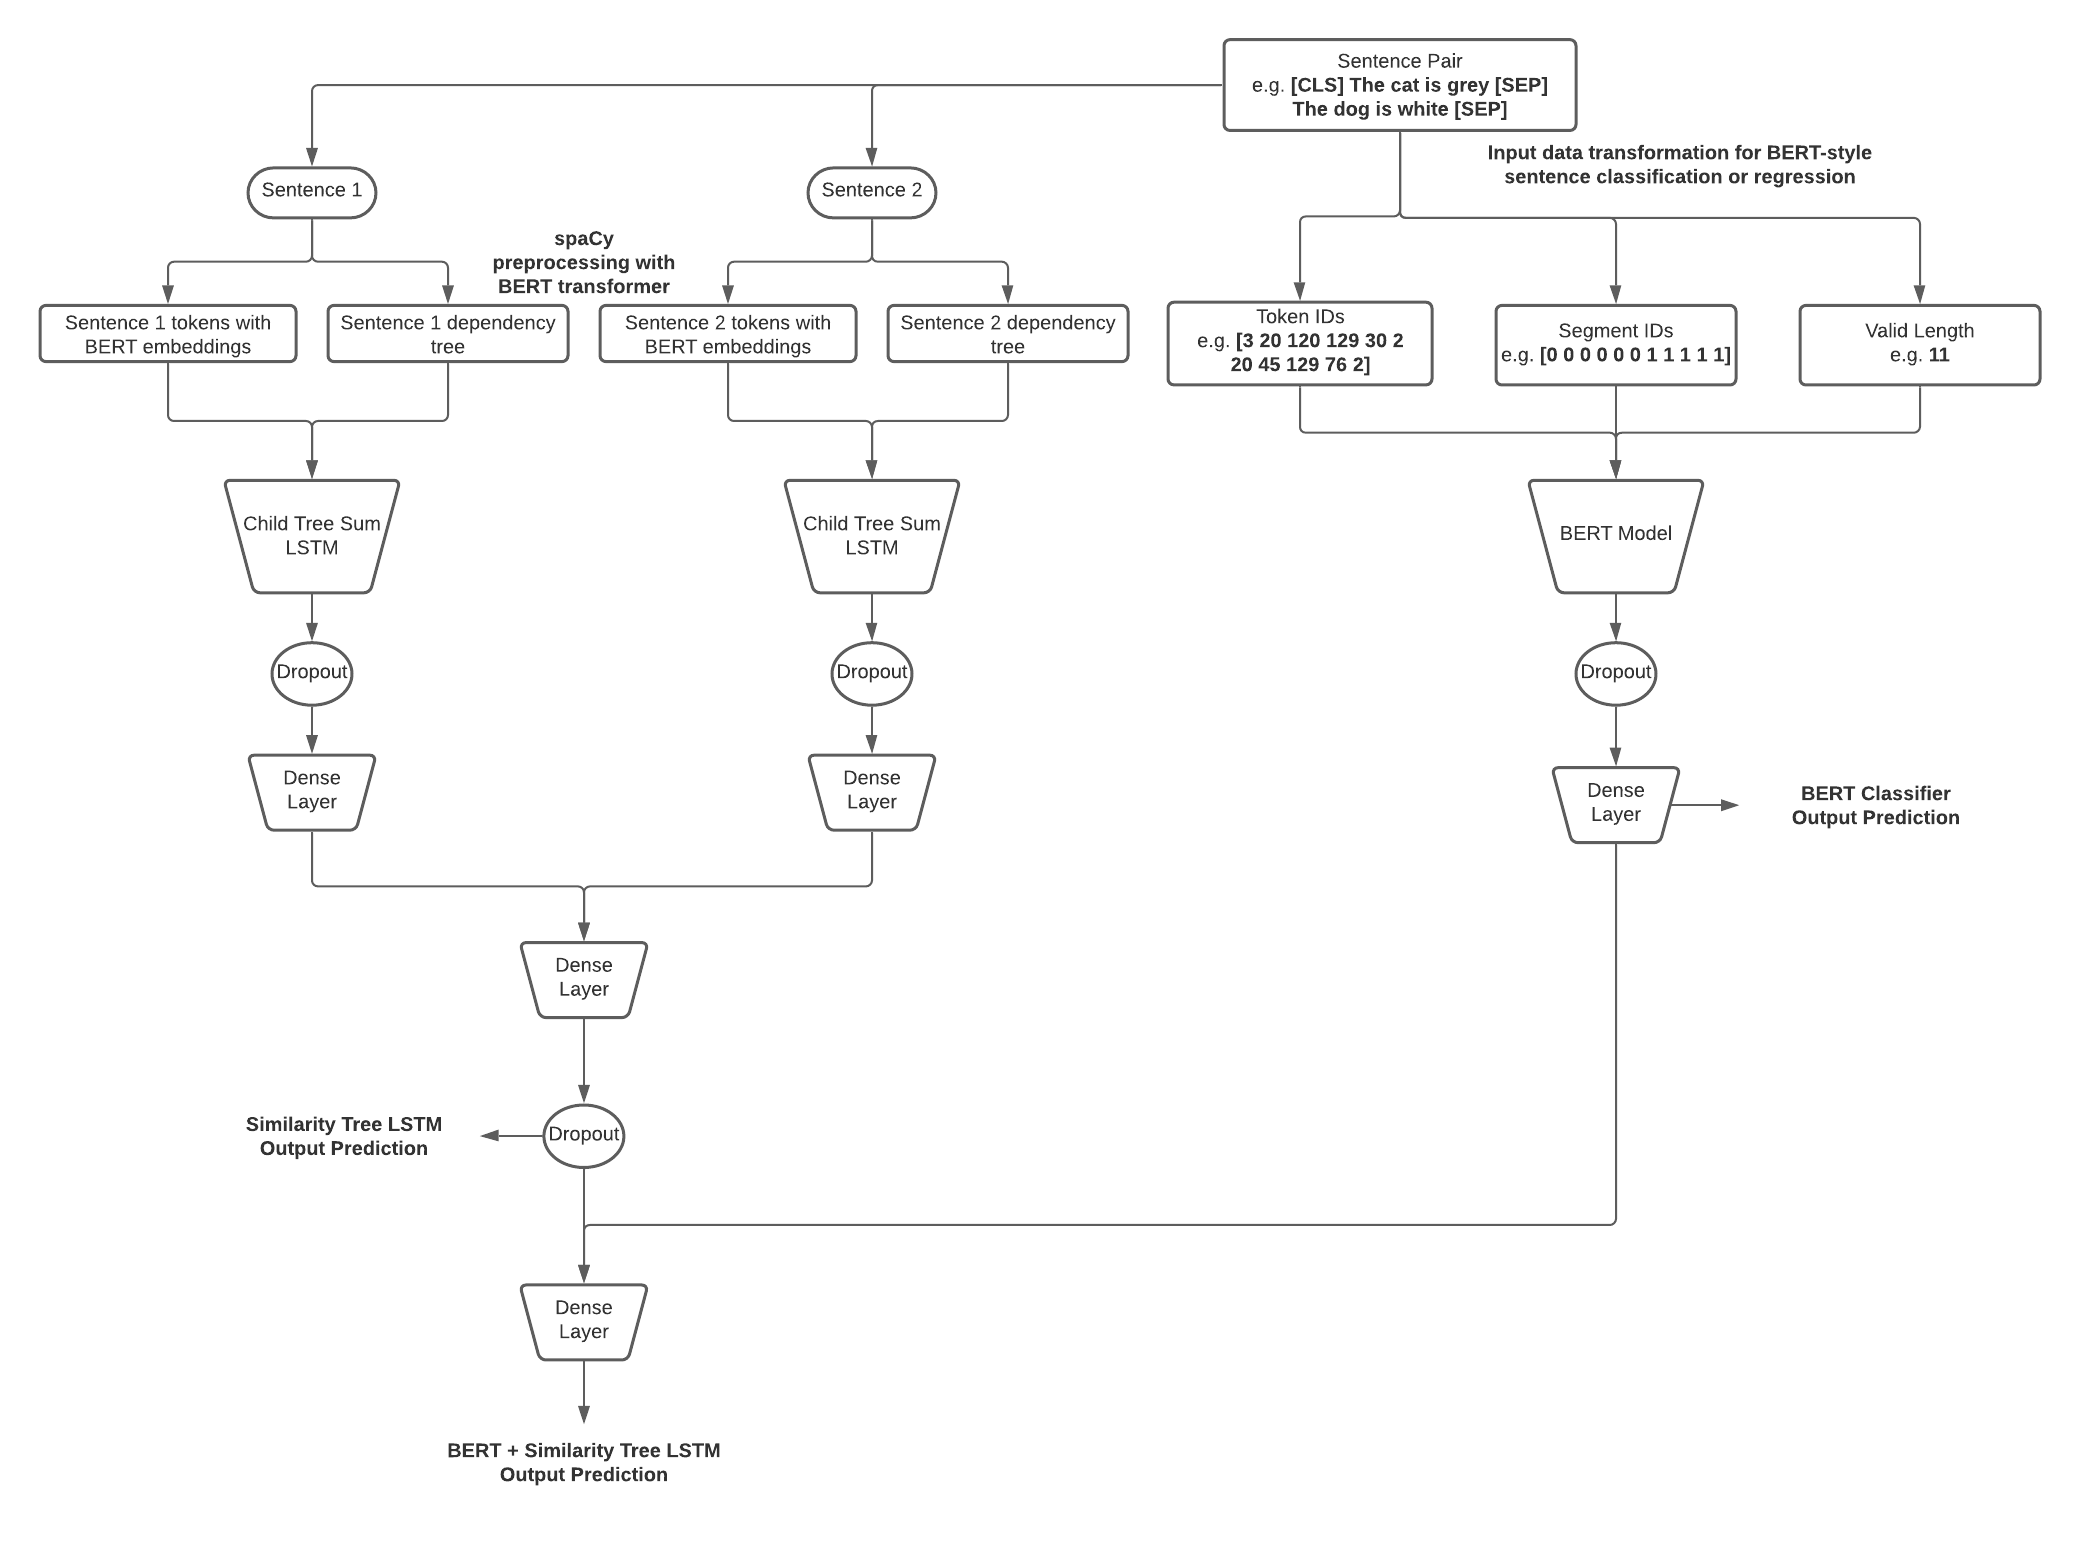
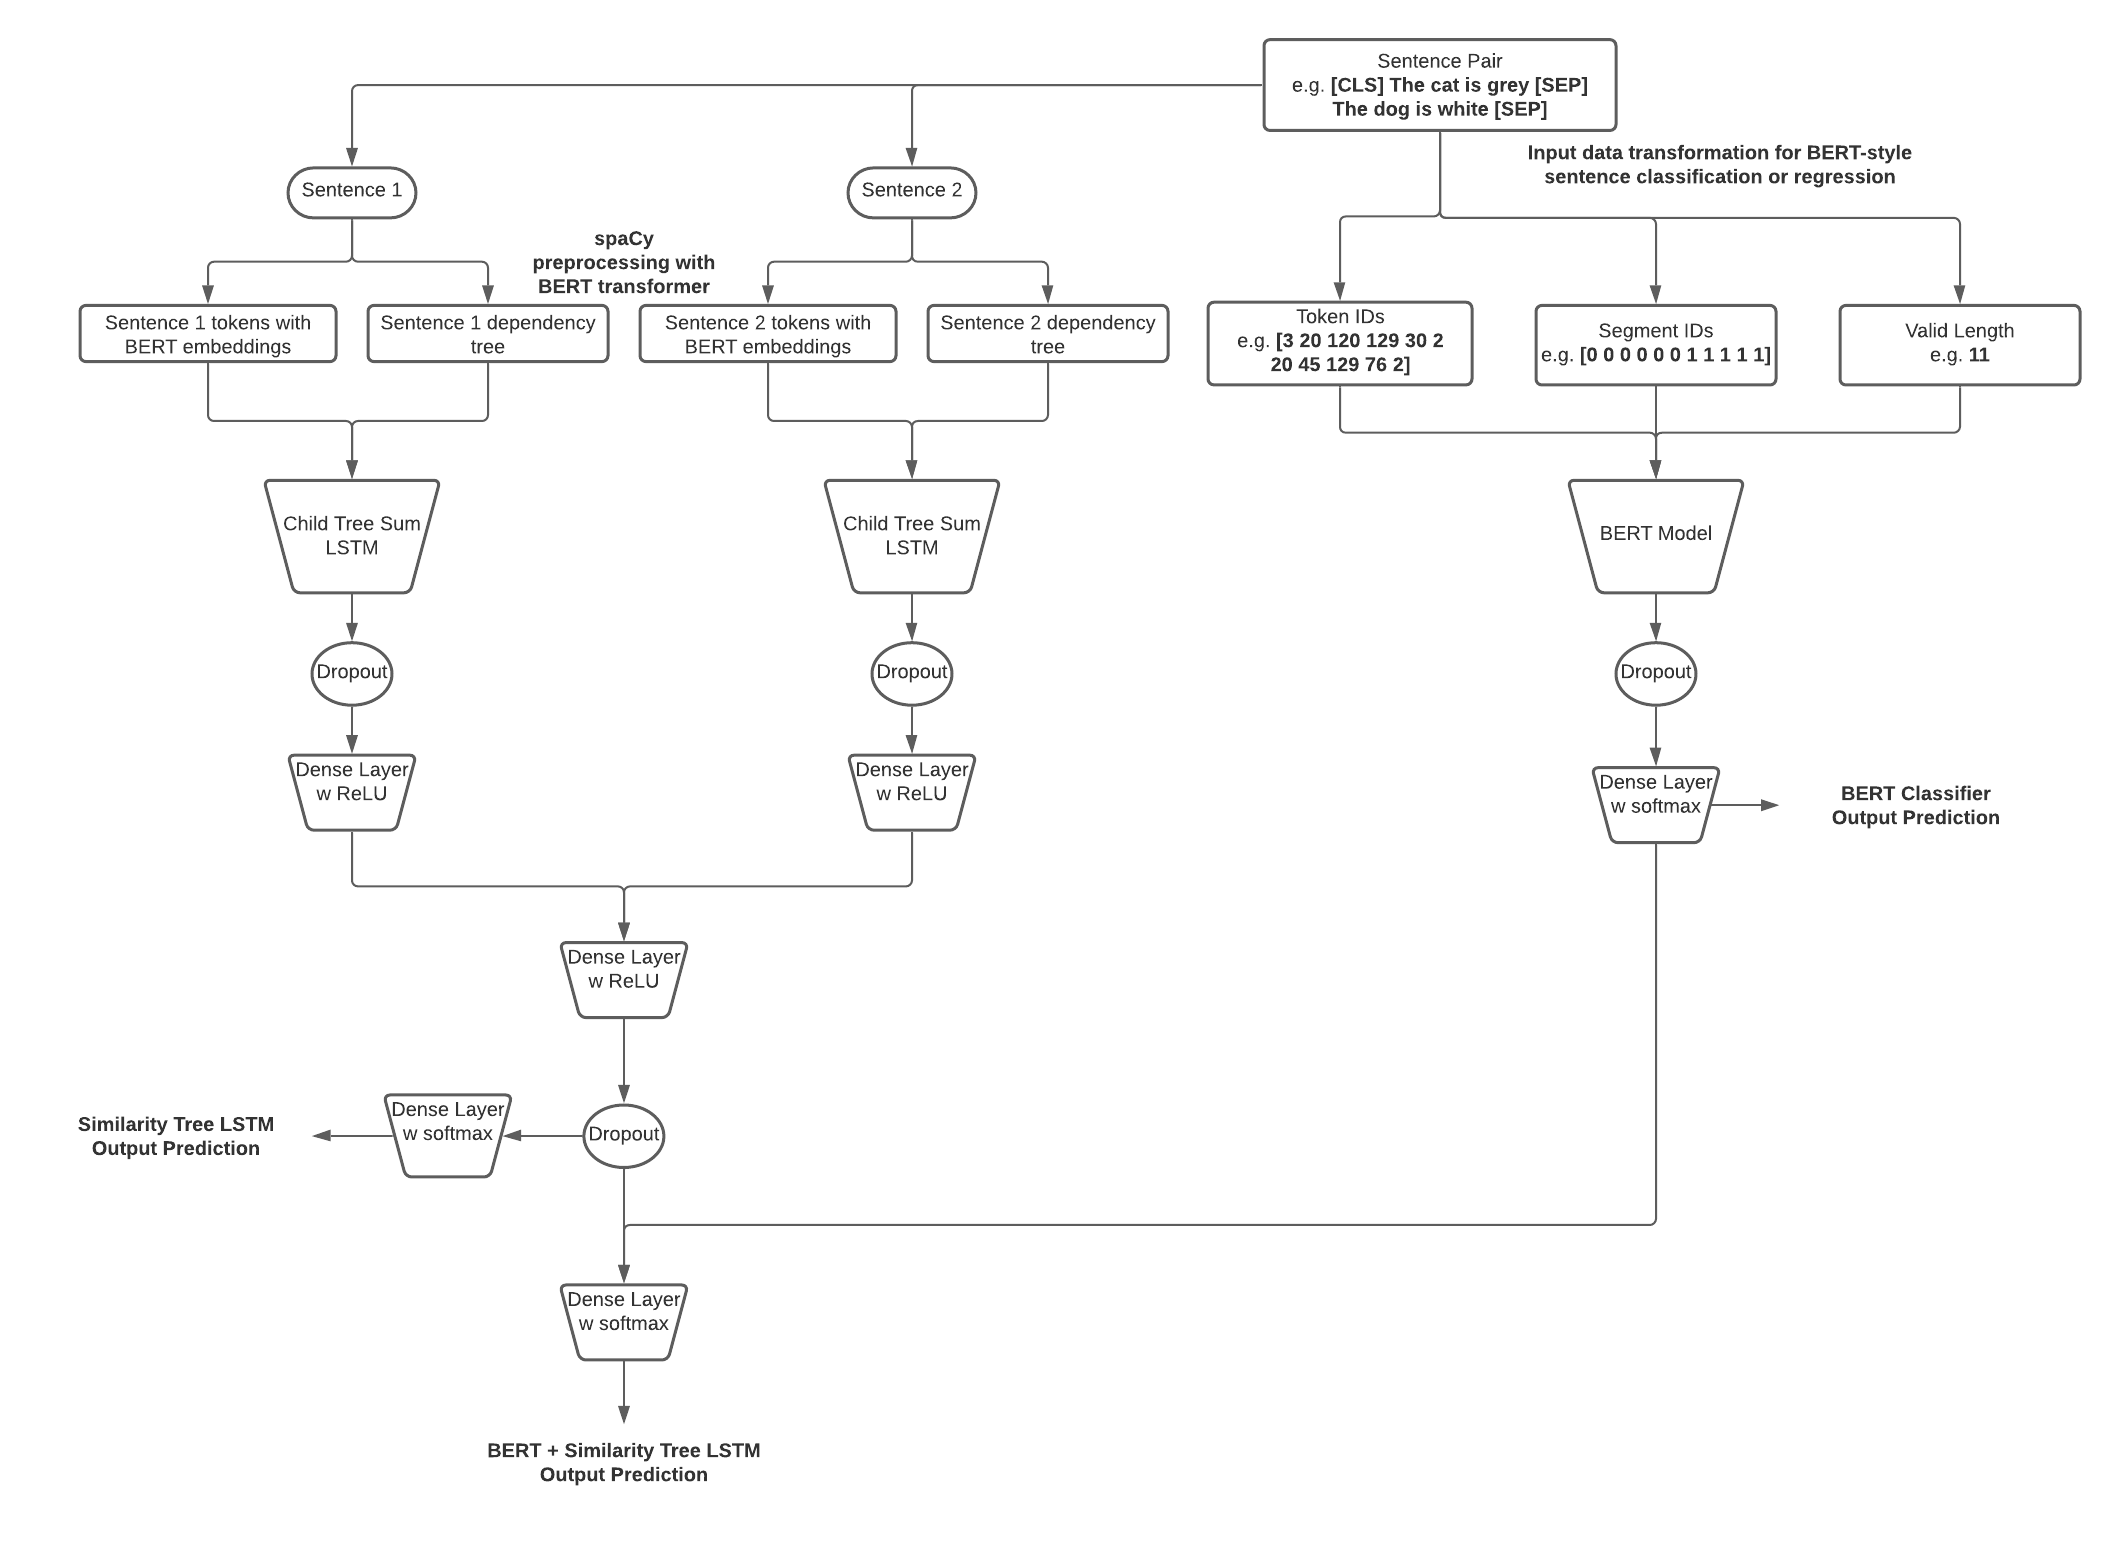
add requirements, update training in readme

diff --git a/models.py b/models.py
@@ -135,9 +135,9 @@ class BertAndSimilarityTreeLSTM(nn.Block):
             self.childsumtreelstm = ChildSumLSTMCell(256, input_size=768)
             #             self.similarity = Similarity(sim_hidden_size, rnn_hidden_size, num_classes)
             self.dropout_layer = nn.Dropout(rate=dropout_rate)
-            self.dense_layer_1 = nn.Dense(128)
-            self.dense_layer_2 = nn.Dense(64)
-            self.dense_layer_3 = nn.Dense(16)
+            self.dense_layer_1 = nn.Dense(128, activation='relu')
+            self.dense_layer_2 = nn.Dense(64, activation='relu')
+            self.dense_layer_3 = nn.Dense(16, activation='relu')
             self.dense_layer_4 = nn.Dense(2)
 
     def forward(self, F, token_ids, segment_ids, valid_length, l_sentences, l_trees, r_sentences, r_trees):

diff --git a/README.md b/README.md
@@ -1,4 +1,4 @@
-# Engineering a Child-Sum Tree-LSTM with spaCy Transformer Dependency Trees
+# Engineering a Child-Sum Tree-LSTM with spaCy BERT Dependency Trees
 
 This is a modified implementation of the methods proposed in [Improved Semantic Representations From
 Tree-Structured Long Short-Term Memory Networks](https://aclanthology.org/P15-1150.pdf) (Tai et al., 2015) to develop 
@@ -14,10 +14,6 @@ paraphrase pair.
 
 The primary hypothesis is that BERT embeddings trained and updated in a dependency tree LSTM should give a stronger 
 signal in determining whether two sentences are paraphrases of each other as opposed to a plain BERT classifier.
-
-## Training
-
-
 
 ## What are dependency trees?
 
@@ -37,10 +33,6 @@ can be as simple as using counts of dependency tags or their n-grams as a proxy 
 implementation is based on research that attempts to harness the inherent tree structure of dependency parsing to the 
 advantage of an LSTM network.
 
-## What is BERT?
-
-
-
 ## What is the model architecture?
 
 ![Composition of memory cell c and hidden staten h of a Tree-LSTM cell unit](data/treelstmcell.png)
@@ -48,9 +40,10 @@ advantage of an LSTM network.
 The foundation of the Dependency-Tree LSTM is the Child-Sum Tree-LSTM cell unit. The difference between the Tree-LSTM 
 cell unit and a regular standard LSTM unit is that in a Tree-LSTM unit, the gating vectors `i` and `f` and the memory 
 cell `c` are dependent on the hidden and cell states of multiple child units. There are multiple forget gates `f`, one 
-for each child unit. This allows the Tree-LSTM unit to selectively exclude information from each child unit. In this 
-way, it could learn to prioritize certain dependency children more than others, e.g. adverbial clauses vs. determiners 
-in trying to determine semantic relatedness.
+for each child unit. The hidden states from multiple child units are summed and transformed to get upper cell and hidden 
+states in a Child-Sum Tree-LSTM. This allows the Tree-LSTM unit to selectively exclude information from each child unit. 
+In this way, it could learn to prioritize certain dependency children more than others, e.g. adverbial clauses vs. 
+determiners in trying to determine semantic relatedness.
 
 The input `x` for each Tree-LSTM cell unit, in our case, is the spaCy BERT embedding for the particular token from the 
 pooled output of the spaCy BERT model.
@@ -62,6 +55,71 @@ LSTM`, which is composed solely of Child-Sum Tree-LSTM cells, the `BERT Classifi
 classifier model consisting of a dropout and dense layer applied on the pooled output of a BERT language model, and a 
 combined `BERT + Similarity Tree LSTM` model. The architecture of these models is illustrated in the diagram above.
 
+The dense layers are followed by ReLU, a simple and effective activation function with sparse activation. Softmax 
+activation is applied on the final dense layers of two dimensions and cross-entropy loss is computed on that output.
+
+## Training
+
+Install `requirements.txt` for required Python packages. Run `train.py` for random hyperparameter search, training and 
+testing.
+
+This package has three modes: `train-randomsearch`, `train` and `predict` and three model types: `bert`, 
+`bert+treelstm` and `treelstm`. 
+
+Running in `train-randomsearch` performs a 
+random hyperparameter search on the following parameters:
+* `--no-layers-to-freeze`, number of BERT layers to freeze: 3, 7, 10
+* `--initializer`, initializer for Tree-LSTM and dense layer weights: xavier, normal
+* `--dropout`, dropout value: 0.2, 0.5, 0.9
+* `--batch-size`, number of samples fed into the neural network at a time: 16, 32, 64
+* `--learning-rate`, learning rate for neural network: 0.001, 0.0001, 0.00001, 0.000001, 0.0000001
+* `--weight-decay`, regularization parameter by which the sum of squares of the model parameter weights are multiplied 
+  and then added to the loss: learning_rate / 1000, learning_rate / 100, learning_rate / 10
+
+The number of permutations to be performed with these parameters can be specified using `--permutations`.
+
+### Random Search mode
+To run in `train-randomsearch` mode for the `bert+treelstm` model type with 10 random permutations of the 
+hyperparameters with 10 epochs each, specify the parameters like so:
+```
+python3 train.py --model-type bert+treelstm --model train-randomsearch --epochs 10 --permutations 10
+```
+No experiment name is required; it will be automatically constructed with the model type and hyperparameters used in 
+each permutation.
+
+The train and validation losses and accuracies will get saved in files with names ending with `_losses_and_acc.csv` and 
+the model parameters will get saved in `_best.params`. The validation accuracies for each set of hyperparameters will 
+get saved in `randomsearch_results.txt`.
+
+### Train mode
+
+To run in `train` mode, specify all the hyperparameters unless using the default ones, like so:
+```
+python3 train.py --experiment-name bert+treelstm_train --mode train --epochs 30 --model-type bert+treelstm --no-layers-to-freeze 3 --initializer normal --dropout 0.2 --batch-size 64 --learning-rate 0.000001 --weight-decay 0.00000001
+```
+
+The train and validation losses and accuracies will get saved in files with names ending with `_losses_and_acc.csv` and 
+the model parameters will get saved in `_best.params`. The test accuracy, F1 score, loss and confusion matrix will 
+get saved in `test_results.txt`.
+
+### Predict mode
+
+To run in `predict` mode, specify just the experiment name and mode:
+```
+python3 train.py --experiment-name bert+treelstm_train --mode predict
+```
+The test accuracy, F1 score, loss and confusion matrix will 
+get saved in `test_results.txt`.
+
 ## Analysis of Results
 
 ## Future Work
+* Replace ReLU with [Leaky ReLU](https://ayearofai.com/rohan-4-the-vanishing-gradient-problem-ec68f76ffb9b) to address 
+the dying ReLU problem which might be happening with some parameter settings in the random search
+* Replace softmax activation on the output dense layer in two dimensions with a sigmoid activation on a dense layer 
+in one dimension for faster modeling
+* Try deeper networks, i.e. with more dense layers
+* Make use of N-ary Tree-LSTMs (as mentioned in Tai et al.) and constituency parsing rather than Child-Sum Tree-LSTMs 
+  and dependency parsing; in N-ary Tree-LSTMs the order of the children is taken into consideration which allows 
+  constituency trees, where constituent sub-phrases of the same type are on the same side of the parent, to be harnessed 
+  more richly
